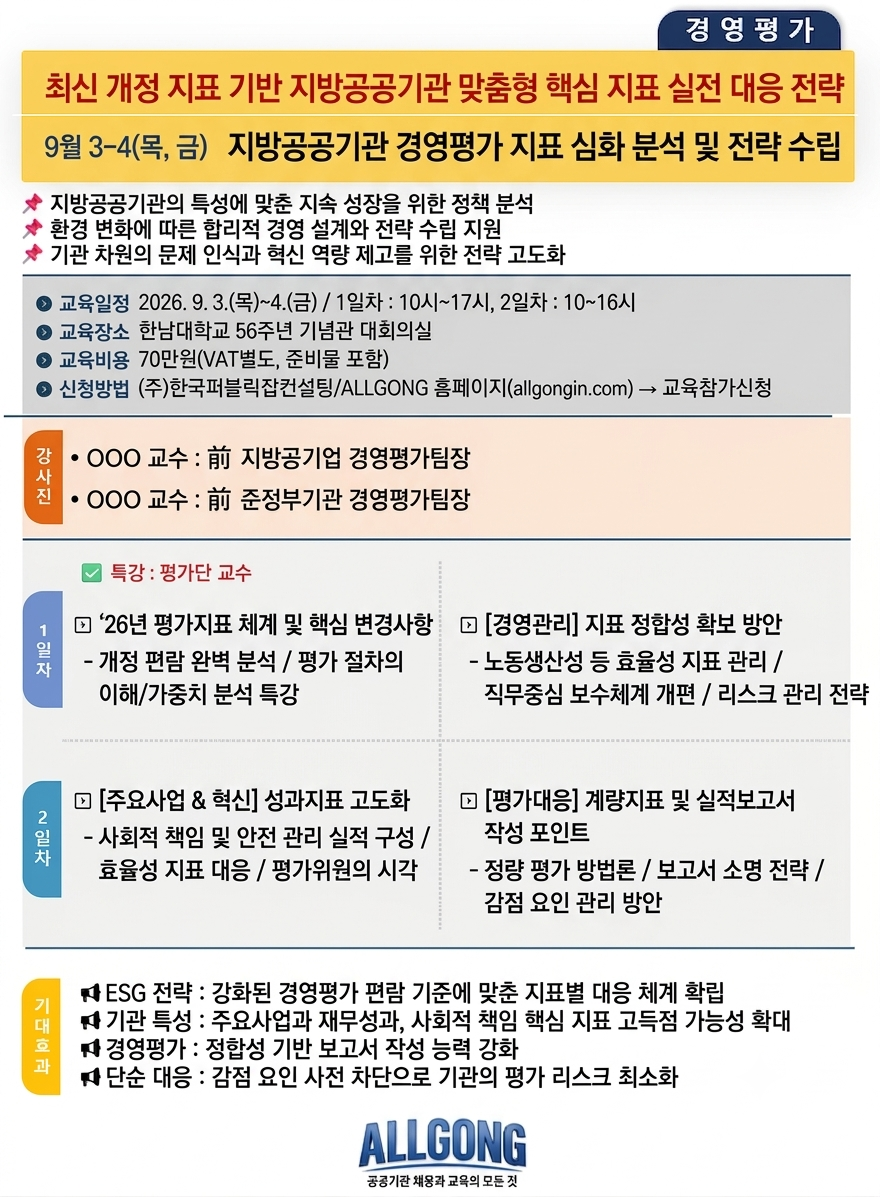
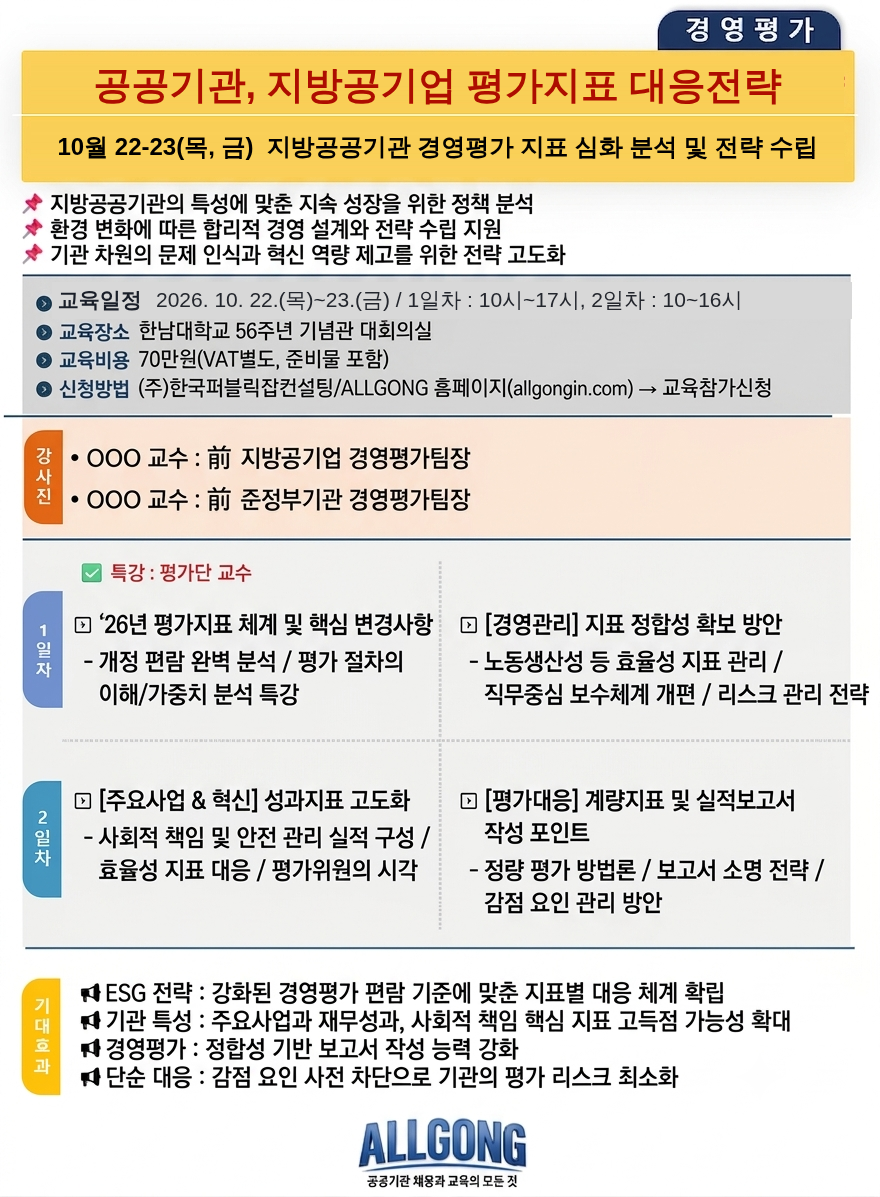
교육 배너 정리: 배너 2종 삭제, 배너4 제목·일정 변경
- '민간 협업 중심'(banner5)·'지방공기업 임직원 역량 강화'(banner6) 배너 삭제
  (홈 하단과 공공기관 교육 게시판 모두 — 게시판은 자동 미러링)
- banner4 제목을 '공공기관, 지방공기업 평가지표 대응전략'으로,
  일정을 10월 22일(목)~23일(금)로 이미지 재작성
- 클릭 시 표시되는 상세 포스터(education/4.png)의 제목·일정 3곳도
  동일하게 수정해 불일치 방지

Claude-Session: https://claude.ai/code/session_01Qs5W71xmYSvwdwEB2PoZHp

Changed region(s): [[0.0307, 0.0309, 0.9818, 0.1546], [0.0614, 0.2473, 0.7364, 0.2782], [0.7977, 0.2473, 0.8284, 0.2782]]

diff --git a/index.html b/index.html
@@ -5142,30 +5142,14 @@
               </div>
             </a>
 
-            <!-- 배너 4 -->
+            <!-- 배너 4: 공공기관, 지방공기업 평가지표 대응전략 (10/22~23) -->
             <a class="edu-banner" href="https://github.com/buglerrr/puconet/blob/main/images/education/4.png?raw=true" target="_blank" rel="noopener">
               <div class="thumb">
                 <img loading="lazy" decoding="async" src="https://github.com/buglerrr/puconet/blob/main/images/baner/banner4.png?raw=true"
-                  alt="교육과정 3 썸네일">
+                  alt="공공기관, 지방공기업 평가지표 대응전략 (10월 22일~23일)">
               </div>
             </a>
 
-            <!-- 배너 5 -->
-            <a class="edu-banner" href="https://github.com/buglerrr/puconet/blob/main/images/education/5.png?raw=true" target="_blank" rel="noopener">
-              <div class="thumb">
-                <img loading="lazy" decoding="async" src="https://github.com/buglerrr/puconet/blob/main/images/baner/banner5.png?raw=true"
-                  alt="교육과정 3 썸네일">
-              </div>
-            </a>
-
-            <!-- 배너 6 -->
-            <a class="edu-banner" href="https://github.com/buglerrr/puconet/blob/main/images/education/6.png?raw=true" target="_blank" rel="noopener">
-              <div class="thumb">
-                <img loading="lazy" decoding="async" src="https://github.com/buglerrr/puconet/blob/main/images/baner/banner6.png?raw=true"
-                  alt="교육과정 3 썸네일">
-              </div>
-            </a>
-            
             <!-- 필요 시 더 추가 -->
             <!-- 배너 4~6 ... 동일한 형식으로 복사/붙여넣기 -->
           </div>
